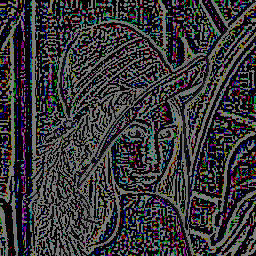
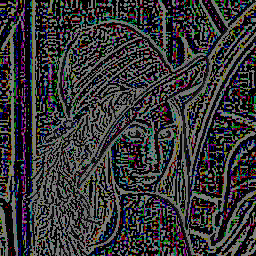
Update

diff --git a/basic_algorithm/pixel/pixel.py b/basic_algorithm/pixel/pixel.py
@@ -1,13 +1,18 @@
 import cv2
 import numpy as np
 
-def exposure(image,value):
+def luminance(image,value):
     if value > 0:
         image = image.copy() * (1 / (1 - value))
         image = np.clip(image,0,255)
     else:
         image = image.copy() * (1 + value)
     return image.astype(np.uint8)
+
+def exposure(image,value):
+    image = image * 2 ** (1 + value)
+    image = np.clip(image,0,255)
+    return image
 
 def contrast(image,value):
     image = image / 255
@@ -41,26 +46,42 @@ def saturation(image, value):
         image = L + (image - L) * (1 + alpha)
     return image*255
 
-def shapen(image,value):
-    image_blur = cv2.blur(image,(5,5))
-    cv2.imwrite('tmp.png',image_blur)
-    bias = image - image_blur
-    cv2.imwrite('tmp.png',bias*.5)
-    image = image + bias * (1/(1 - value))*0.1
-    image = np.clip(image,0,255)
-    return image
+def sharpen(image,value):
+    img = image.copy() * 1.0
+    gauss_out = cv2.GaussianBlur(img, (5,5),10)
+    
+    # alpha 0 - 5
+    alpha = value
+    img_out = (img - gauss_out) * alpha + img
+    
+    img_out = img_out/255.0
+    
+    # 饱和处理
+    mask_1 = img_out  < 0 
+    mask_2 = img_out  > 1
+    
+    img_out = img_out * (1-mask_1)
+    img_out = img_out * (1-mask_2) + mask_2
+    return (img_out*255).astype(np.uint8)
 
 def tonemapping(image,value):
-    image_blur = cv2.blur(image,(5,5))
+    image = image.copy() * 1.0
+    image_blur = cv2.GaussianBlur(image,(5,5),10)
     bias = image - image_blur
-    print(np.max(bias),np.min(bias))
-    image = np.clip(image_blur*(1 + value),0,225) + bias
-    image = np.clip(image,0,255)
-    return image
+    image = image_blur*(1 + value) + bias
+    image = image / 255 
+    mask_1 = image  < 0 
+    mask_2 = image  > 1
+    
+    img_out = image * (1-mask_1)
+    img_out = img_out * (1-mask_2) + mask_2
+    return (img_out*255).astype(np.uint8)
 
 if __name__ == '__main__':
     image = cv2.imread('lena.jpg')
+    cv2.imwrite('luminance.png',luminance(image,.5))
     cv2.imwrite('exposure.png',exposure(image,.5))
     cv2.imwrite('contrast.png',contrast(image,.5))
     cv2.imwrite('saturation.png',saturation(image,.5))
-    cv2.imwrite('shapen.png',shapen(image,.5))
+    cv2.imwrite('sharpen.png',sharpen(image,.5))
+    cv2.imwrite('tonemapping.png',tonemapping(image,.5))
